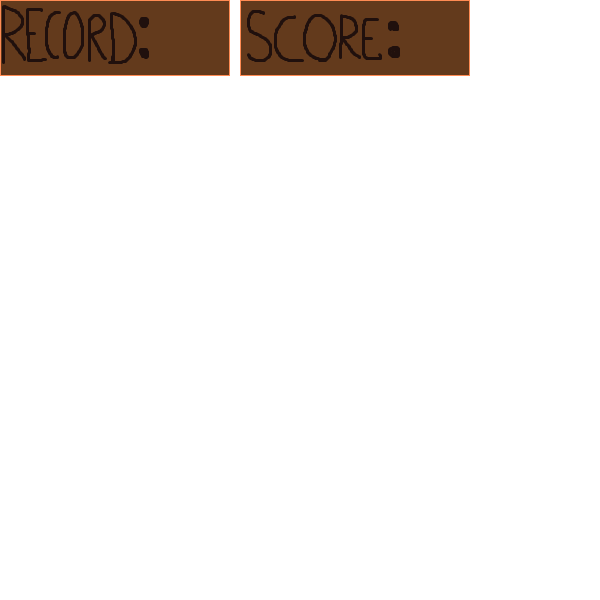
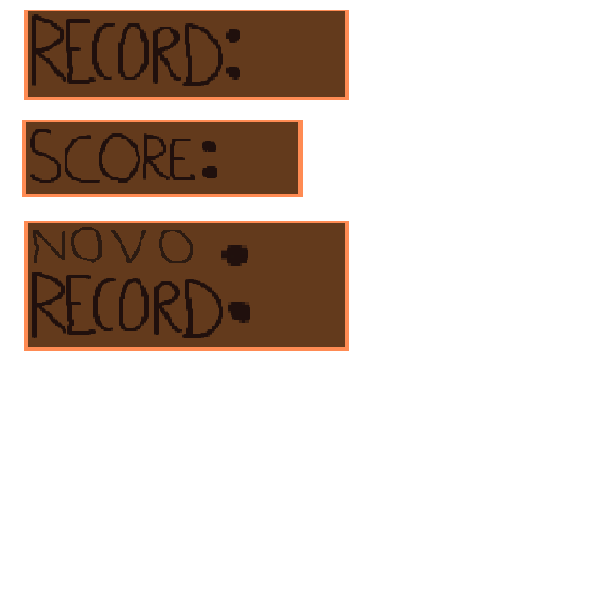
Pronto
Talvez eu melhore os desenhos depois, não sei!

Changed region(s): [[0.0, 0.0, 0.81, 0.33], [0.03, 0.36, 0.6, 0.6]]

diff --git a/jogo01/index.html b/jogo01/index.html
@@ -31,7 +31,15 @@
         chao = {
             y: 550,
             altura: 50,
-            cor: "#ffdf70"
+            cor: "#ffdf70",
+
+            atualização: function() {
+                this.x -= velocidade;
+            },
+
+            desenha: function() {
+                spriteChao.desenha(this.x, this.y);
+            }
         },
 
         bloco = {
@@ -198,11 +206,12 @@
         function atualização() {
             frames++;
 
-            bloco.atualização();
-
             if (estadoAtual == estados.jogando) {
                 obstaculos.atualização();
             }
+
+            chao.atualização();
+            bloco.atualização();
         }
 
         function desenha() {
@@ -218,30 +227,37 @@
             ctx.fillText(bloco.score, 25, 50);
 
             if (estadoAtual == estados.jogar) {
-                ctx.fillStyle = "green";
-                ctx.fillRect(LARGURA / 2 - 50, ALTURA / 2 - 50, 100,100)
+                start.desenha(LARGURA / 2 - 50, ALTURA / 2 - 50)
             }
 
             if (estadoAtual == estados.perdeu) {
                 ctx.fillStyle = "red";
                 ctx.fillRect(LARGURA / 2 - 50, ALTURA / 2 - 50, 100,100)
+                derrota.desenha(135, 242);
 
                 ctx.save();
                 ctx.translate(LARGURA / 2, ALTURA / 2);
                 ctx.fillStyle = "#000000";
 
                 if (bloco.score > record) {
-                    ctx.fillText("Novo Record!", -150,-65);
+                    nRecord.desenha(-150, -240);
                 }
 
-                else if (record < 10)
-                    ctx.fillText("Record " + record, -99, -65);
+                else if (record < 10) {
+                    oRecord.desenha(-165, -200);
+                    ctx.fillText(record, 90, -140);
+                }
 
-                else if (record >= 10 && record < 100)
-                    ctx.fillText("Record " + record, -112, -65);
+                else if (record >= 10 && record < 100) {
+                    oRecord.desenha(-165, -200);
+                    ctx.fillText(record, 75, -140);
+                    
+                }
 
-                else
-                    ctx.fillText("Record " + record, -125, -65);
+                else {
+                    oRecord.desenha(-165, -200);
+                    ctx.fillText(record, 60, -140);
+                }
 
                 if (bloco.score < 10)
                     ctx.fillText(bloco.score, -14, 19);

diff --git a/jogo01/sprite.js b/jogo01/sprite.js
@@ -14,4 +14,8 @@ spriteChao = new Sprite(0, 550, 600, 50),
 bonecoNormal = new Sprite(208, 623, 50, 50),
 bonecoMorto = new Sprite(263, 623, 50, 50),
 bonecoPula = new Sprite(318, 623, 50, 50),
-bonecoCansado = new Sprite(373, 623, 50, 50);
+bonecoCansado = new Sprite(373, 623, 50, 50),
+derrota = new Sprite(605, 20, 335, 230),
+oRecord = new Sprite(612, 252, 325, 90),
+nRecord = new Sprite(620, 485, 300, 174),
+start = new Sprite(4, 623, 101, 101);
